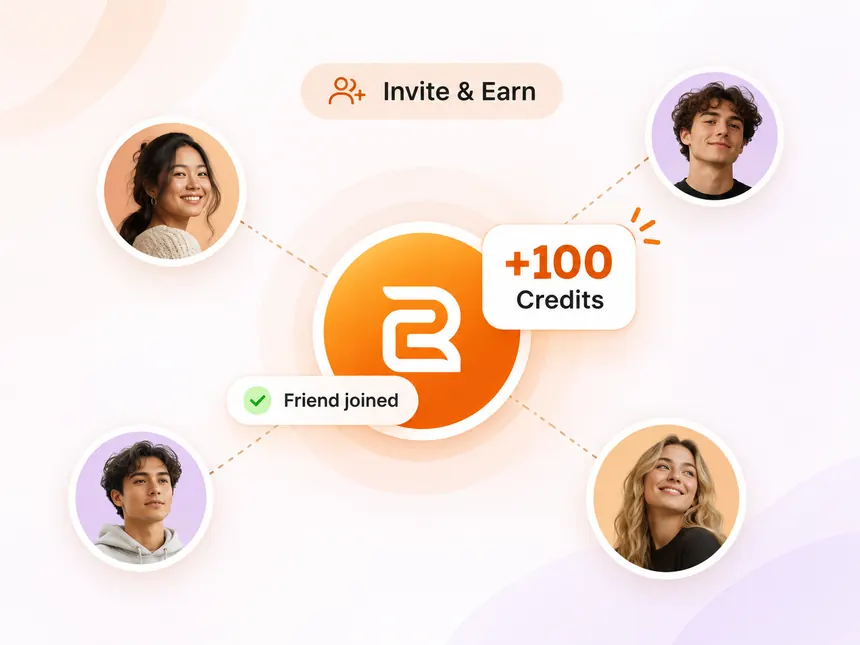
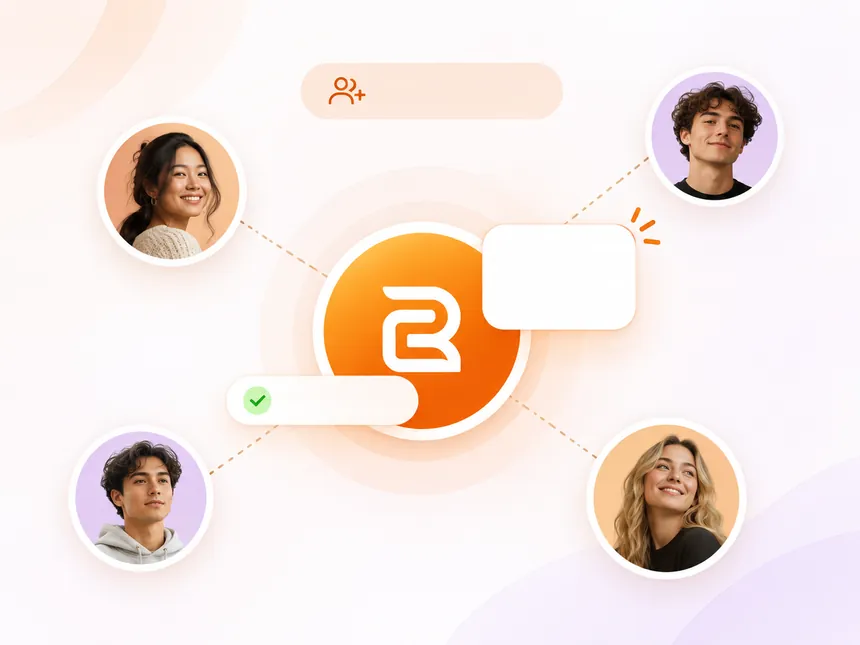
Earn Credits: translate the referral artwork words as HTML
The three drawn labels are erased from the client's picture, each from its flat pill or card, and set in HTML over it in the reader's language. The reward comes from REFERRAL_REWARD_CREDITS, so the guard on the picture is gone.

Changed region(s): [[0.5744, 0.3721, 0.7256, 0.4961], [0.3326, 0.5891, 0.4535, 0.6512], [0.4233, 0.124, 0.6349, 0.155]]

diff --git a/src/app/(app)/earn-credits/page.tsx b/src/app/(app)/earn-credits/page.tsx
@@ -1,4 +1,4 @@
-import { ArrowUpRight, CheckCircle2, ChevronDown, Info, Lightbulb, Plus, Sun, UsersRound, Wallet } from "lucide-react";
+import { ArrowUpRight, Check, CheckCircle2, ChevronDown, Info, Lightbulb, Plus, Sun, UserPlus, UsersRound, Wallet } from "lucide-react";
 import type { Metadata } from "next";
 import Image from "next/image";
 import Link from "next/link";
@@ -28,12 +28,6 @@ import { hasOnlySharedWork } from "@/lib/websites/accessible";
 
 import { EarnWays, EnterReferralCode, ReferralShare } from "./earn-client";
 import { ShareKit } from "./share-kit";
-
-/**
- * The reward drawn into the referral artwork. The picture is only shown while
- * it matches REFERRAL_REWARD_CREDITS, so a changed reward cannot be contradicted by it.
- */
-const ART_REWARD_CREDITS = 100;
 
 const messagesFor = cache((userId: string) => getAppMessages(userId));
 
@@ -151,16 +145,38 @@ export default async function EarnCreditsPage() {
                 </a>
               ) : null}
             </div>
-            {credits === ART_REWARD_CREDITS ? (
+            {/*
+              The client's artwork with its drawn words removed, and the words set
+              here over its pills, sized to the picture (cqw): in the reader's
+              language, with the reward from REFERRAL_REWARD_CREDITS. The alt says
+              it all for a screen reader, so these are hidden from one.
+            */}
+            <div className="@container relative mx-auto w-full max-w-84 sm:max-w-none">
               <Image
                 src="/images/earn/referral-invite.webp"
                 width={860}
                 height={645}
                 sizes="(min-width: 1024px) 22rem, (min-width: 640px) 40vw, 90vw"
                 alt={format(k.artAlt, { credits })}
-                className="mx-auto w-full max-w-84 rounded-xl mix-blend-multiply sm:max-w-none dark:mix-blend-normal"
+                className="w-full rounded-xl mix-blend-multiply dark:mix-blend-normal"
               />
-            ) : null}
+              <div className="pointer-events-none absolute inset-0 font-medium text-[#181715]" aria-hidden="true">
+                <span className="absolute top-[14.1%] left-[50.2%] flex min-w-[30.4cqw] -translate-x-1/2 -translate-y-1/2 items-center justify-center gap-[1.4cqw] rounded-full bg-[#fce7da] px-[3cqw] py-[2.2cqw] text-[3cqw] leading-none whitespace-nowrap">
+                  <UserPlus className="size-[4.2cqw] text-primary" />
+                  {e.inviteEyebrow}
+                </span>
+                <span className="absolute top-[42.9%] left-[65%] flex -translate-x-1/2 -translate-y-1/2 flex-col items-center gap-[1cqw] leading-none whitespace-nowrap">
+                  <strong className="text-[7cqw] font-extrabold tracking-tight text-[#d9500f]">+{credits}</strong>
+                  <span className="text-[3.2cqw] font-semibold">{k.artCredits}</span>
+                </span>
+                <span className="absolute top-[62.1%] left-[37.5%] flex min-w-[22.3cqw] -translate-x-1/2 -translate-y-1/2 items-center justify-center gap-[1.4cqw] rounded-full bg-white px-[1.8cqw] py-[1.7cqw] text-[2.7cqw] leading-none whitespace-nowrap shadow-sm">
+                  <span className="grid size-[3.6cqw] place-items-center rounded-full bg-emerald-200 text-emerald-700">
+                    <Check className="size-[2.6cqw] stroke-[3]" />
+                  </span>
+                  {k.artFriend}
+                </span>
+              </div>
+            </div>
           </div>
           <div className="relative mt-4 max-w-2xl">
             {referrals && link ? (

diff --git a/src/app/(app)/earn-credits/earn-page.render.test.ts b/src/app/(app)/earn-credits/earn-page.render.test.ts
@@ -77,6 +77,14 @@ describe("the Earn Credits page", () => {
     expect(html).toContain("+100 credits");
   });
 
+  it("sets the artwork's words as HTML, with the reward from its canonical value", async () => {
+    const html = await render({});
+    expect(html).toContain("/images/earn/referral-invite.webp");
+    expect(html).toContain("+100");
+    expect(html).toContain("Friend joined");
+    expect(html).toContain("Four people connected to RepGet, and a reward of 100 credits");
+  });
+
   it("rendering sends no claim and enters no code", async () => {
     await render({});
     expect(claimAction.submit).not.toHaveBeenCalled();

diff --git a/docs/earn-credits.md b/docs/earn-credits.md
@@ -16,14 +16,16 @@ Client design 2026-11-02. A page of its own, `/earn-credits`, opened from **Earn
 
 ## Share kit
 
-Client design 2026-11-05. A ready-made message for LinkedIn, Facebook, X, WhatsApp and Email, with the reader's own referral link (`/r/<code>` on the production domain, from `getReferralSummary`). The text is editable per platform, and switching platform keeps the edits; Reset restores that platform's template. Each template says the author may receive RepGet credits, as the claim rules ask, and claims no result or experience.
+Client design 2026-11-05. A ready-made message for LinkedIn, Facebook, X, WhatsApp and Email, with the reader's own referral link (`/r/<code>` on the production domain, from `getReferralSummary`). The text is editable per platform, and switching platform keeps the edits; Reset restores that platform's template. Each template is an editable starting point, says the author may receive RepGet credits, as the claim rules ask, and claims no result or experience.
 
 - **Limits**: LinkedIn 3,000, Facebook 63,206, X 280 (a link counts as 23, wide characters as 2, as X counts them), WhatsApp 65,536, Email none. Over the limit, Copy & Open is disabled and the reader is told by how much. Taking the link out of the text brings a warning.
 - **Copy & Open**: copies the text, then a real link opens the platform, URL-encoded. X, WhatsApp and Email open with the text filled in (mail line breaks are CRLF). LinkedIn and Facebook accept only a link, so the reader pastes the copied text; so do WhatsApp and Email when the message is too long for an address.
 - **When the browser refuses to copy**: the kit says so, selects the text and says what to press. The code and link do the same in a field of their own.
 - **It posts nothing and credits nothing.** The kit reaches only the clipboard and an address: no server action, no route. RepGet cannot know whether anything was posted, so no wording says it was. Credits still come only from a referral's first real payment and from a claim the team approves.
 
-The artwork (`public/images/earn/referral-invite.webp`, from the client's design) has English words and "+100" drawn into it. It is shown only while `REFERRAL_REWARD_CREDITS` is 100.
+The artwork (`public/images/earn/referral-invite.webp`) is the client's picture with its three drawn labels erased, each from its flat pill or card. The labels are HTML over it (`page.tsx`), in the reader's language, with the reward read from `REFERRAL_REWARD_CREDITS`. The picture's people are the client's.
+
+The templates are starting points, and the kit says so. The rules do not change: a post that claims the reward must be public and in the author's own words, and the team reviews every claim. Sending a claim only creates a pending claim, with no ledger row, whatever text it carries.
 
 ## Rewards
 
